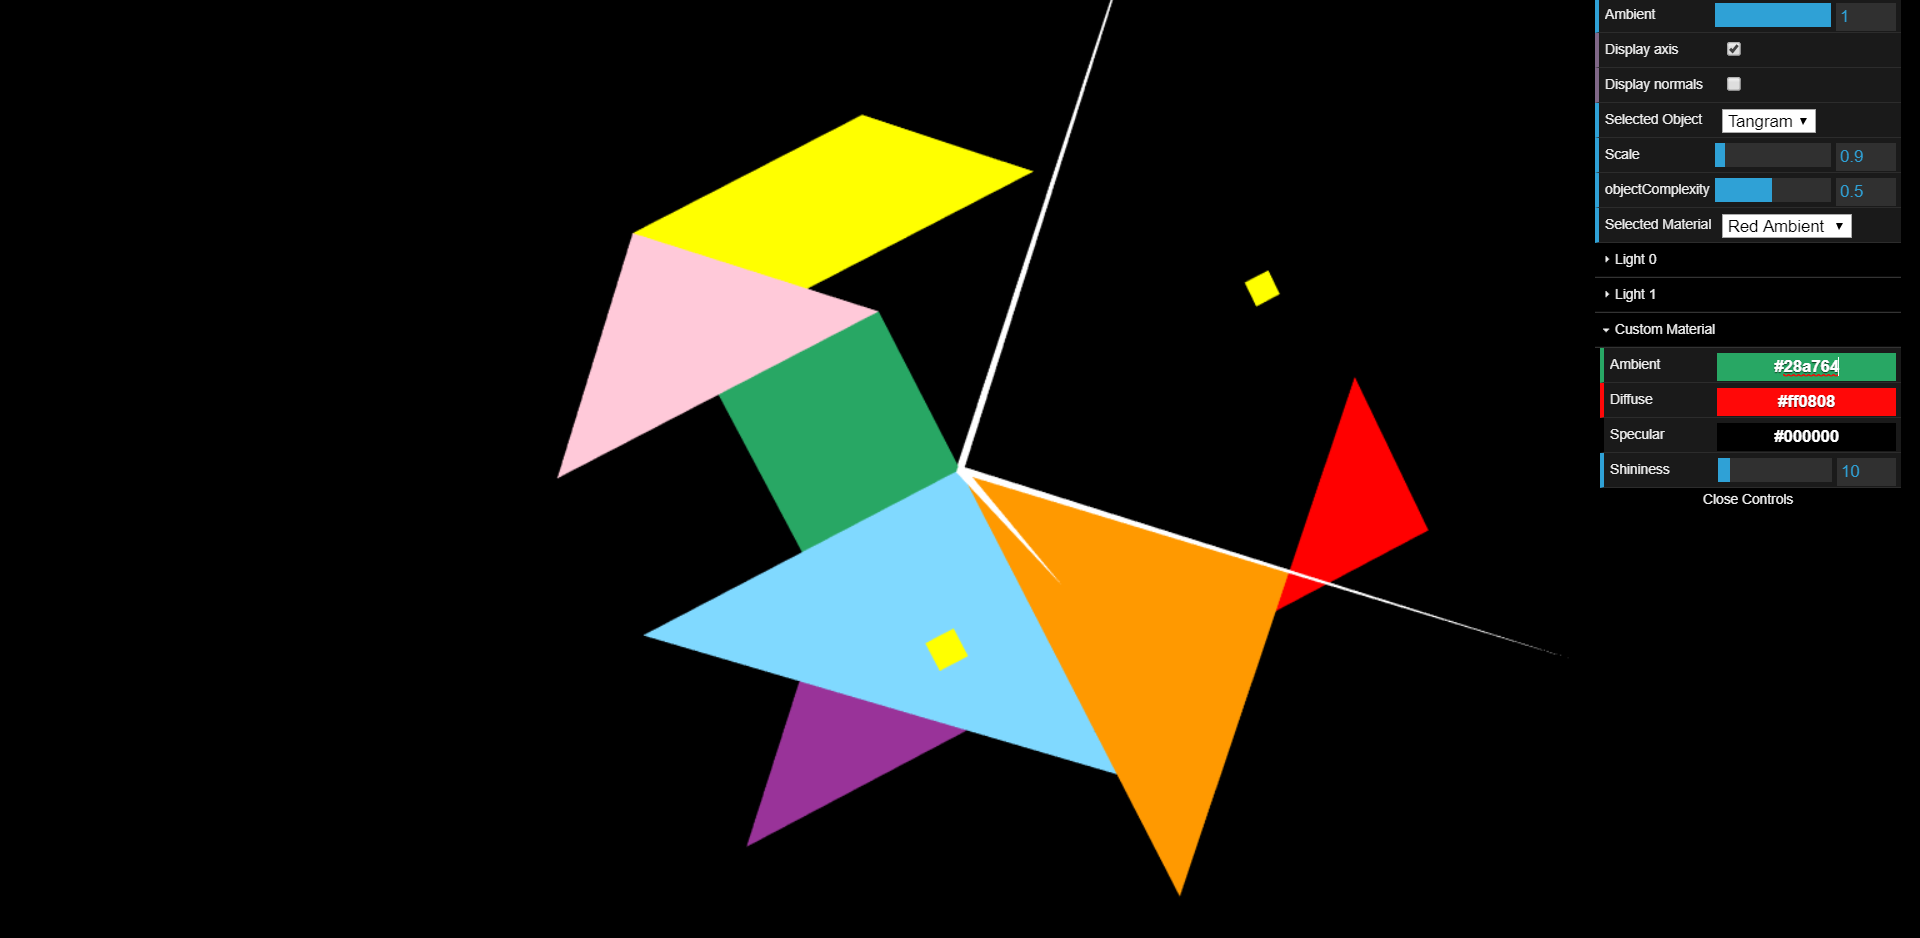
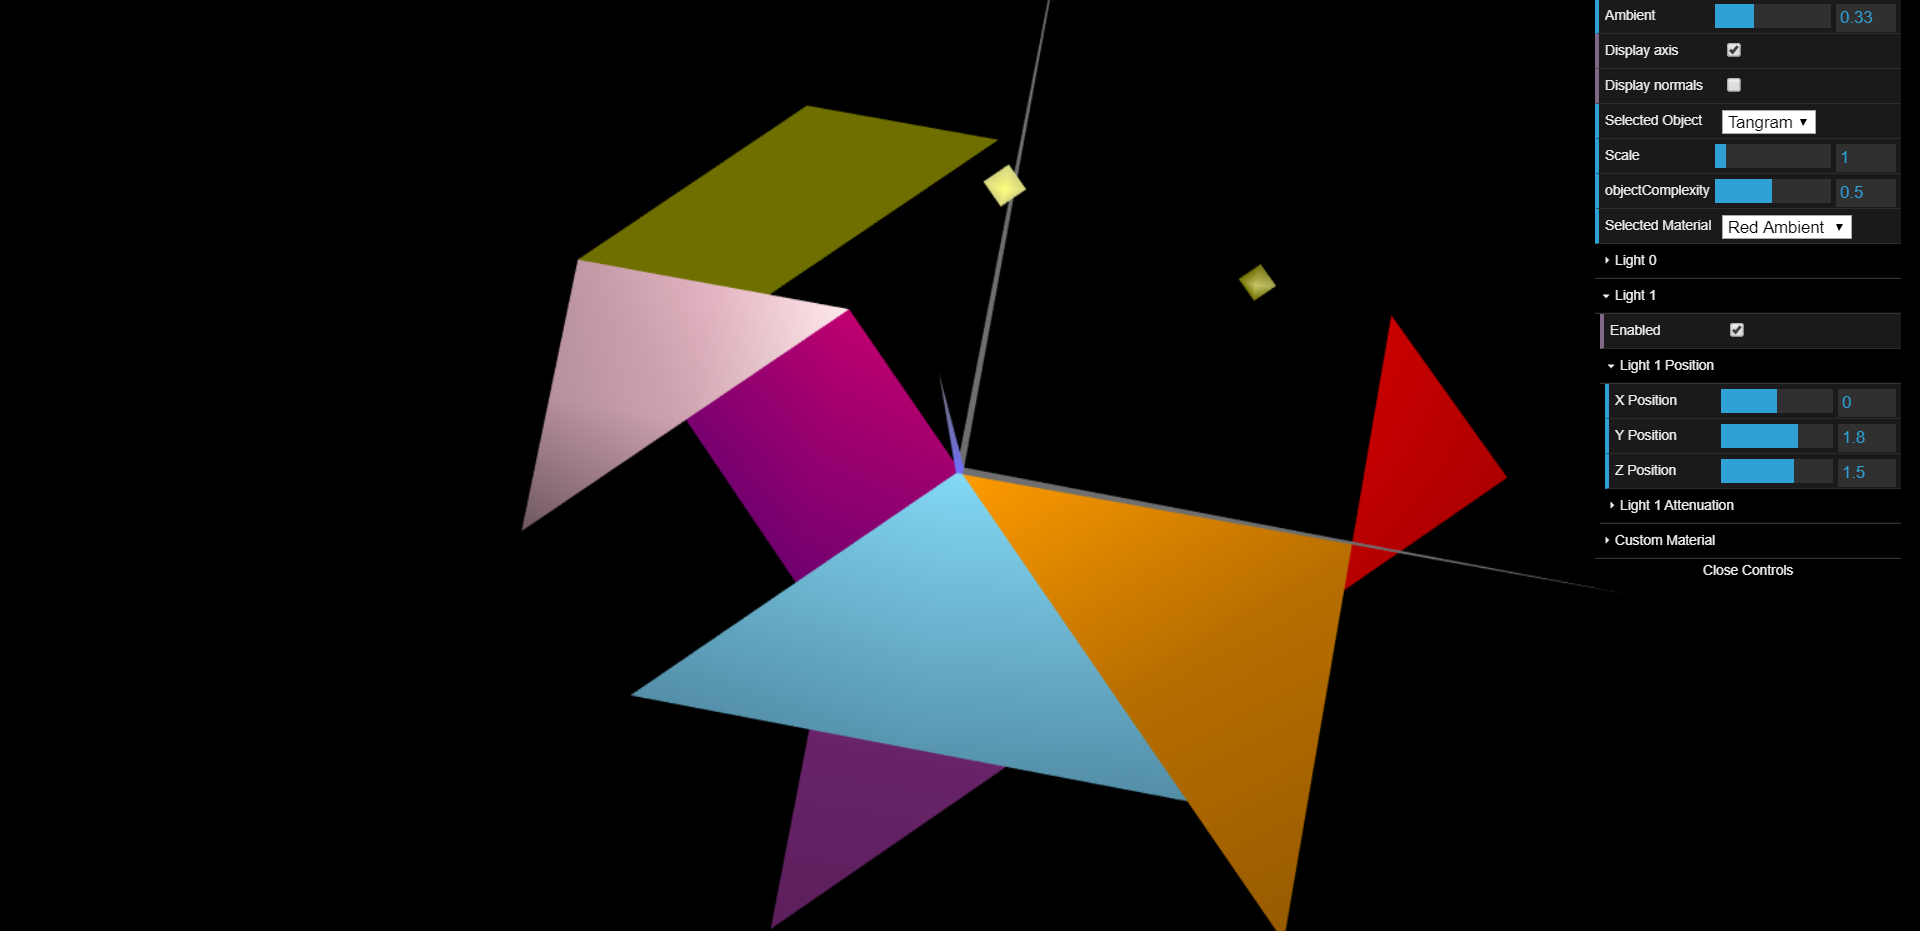
Fixed Tangram Lighting

diff --git a/TP/tp3/MyTangram.js b/TP/tp3/MyTangram.js
@@ -61,7 +61,7 @@ class MyTangram extends CGFobject {
         this.big_triangle = new CGFappearance(this.scene);
         this.big_triangle.setAmbient(0.5,0.85,1,1.0);
         this.big_triangle.setDiffuse(0.5,0.85,1,1.0);
-        this.big_triangle.setSpecular(0.5,0.85,1,1.0);
+        this.big_triangle.setSpecular(1,1,1,1.0);
         this.big_triangle.setShininess(10.0);
 
         this.big_triangle.apply();
@@ -75,7 +75,7 @@ class MyTangram extends CGFobject {
         this.triangle_color2 = new CGFappearance(this.scene);
         this.triangle_color2.setAmbient(1,0.6,0,1.0);
         this.triangle_color2.setDiffuse(1,0.6,0,1.0);
-        this.triangle_color2.setSpecular(1,0.6,0,1.0);
+        this.triangle_color2.setSpecular(1,1,1,1.0);
         this.triangle_color2.setShininess(10.0);
         this.triangle_color2.apply();
 
@@ -93,7 +93,7 @@ class MyTangram extends CGFobject {
         this.triangle_color = new CGFappearance(this.scene);
         this.triangle_color.setAmbient(1,0.79,0.85,1.0);
         this.triangle_color.setDiffuse(1,0.79,0.85,1.0);
-        this.triangle_color.setSpecular(1,0.79,0.85,1.0);
+        this.triangle_color.setSpecular(1,1,1,1.0);
         this.triangle_color.setShininess(10.0);
         this.triangle_color.apply();
         
@@ -111,7 +111,7 @@ class MyTangram extends CGFobject {
         this.triangle_color3 = new CGFappearance(this.scene);
         this.triangle_color3.setAmbient(1,0,0,1.0);
         this.triangle_color3.setDiffuse(1,0,0,1.0);
-        this.triangle_color3.setSpecular(1,0,0,1.0);
+        this.triangle_color3.setSpecular(1,1,1,1.0);
         this.triangle_color3.setShininess(10.0);
         this.triangle_color3.apply();
         
@@ -126,7 +126,7 @@ class MyTangram extends CGFobject {
         this.small_triangle_2_color = new CGFappearance(this.scene);
         this.small_triangle_2_color.setAmbient(0.6,0.2,0.6,1.0);
         this.small_triangle_2_color.setDiffuse(0.6,0.2,0.6,1.0);
-        this.small_triangle_2_color.setSpecular(0.6,0.2,0.6,1.0);
+        this.small_triangle_2_color.setSpecular(1,1,1,1.0);
         this.small_triangle_2_color.setShininess(10.0);
         this.small_triangle_2_color.apply();
 
@@ -141,7 +141,7 @@ class MyTangram extends CGFobject {
         this.paralelogram_color = new CGFappearance(this.scene);
         this.paralelogram_color.setAmbient(1,1,0,1.0);
         this.paralelogram_color.setDiffuse(1,1,0,1.0);
-        this.paralelogram_color.setSpecular(1,1,0,1.0);
+        this.paralelogram_color.setSpecular(1,1,1,1.0);
         this.paralelogram_color.setShininess(10.0);
         this.paralelogram_color.apply();
 
